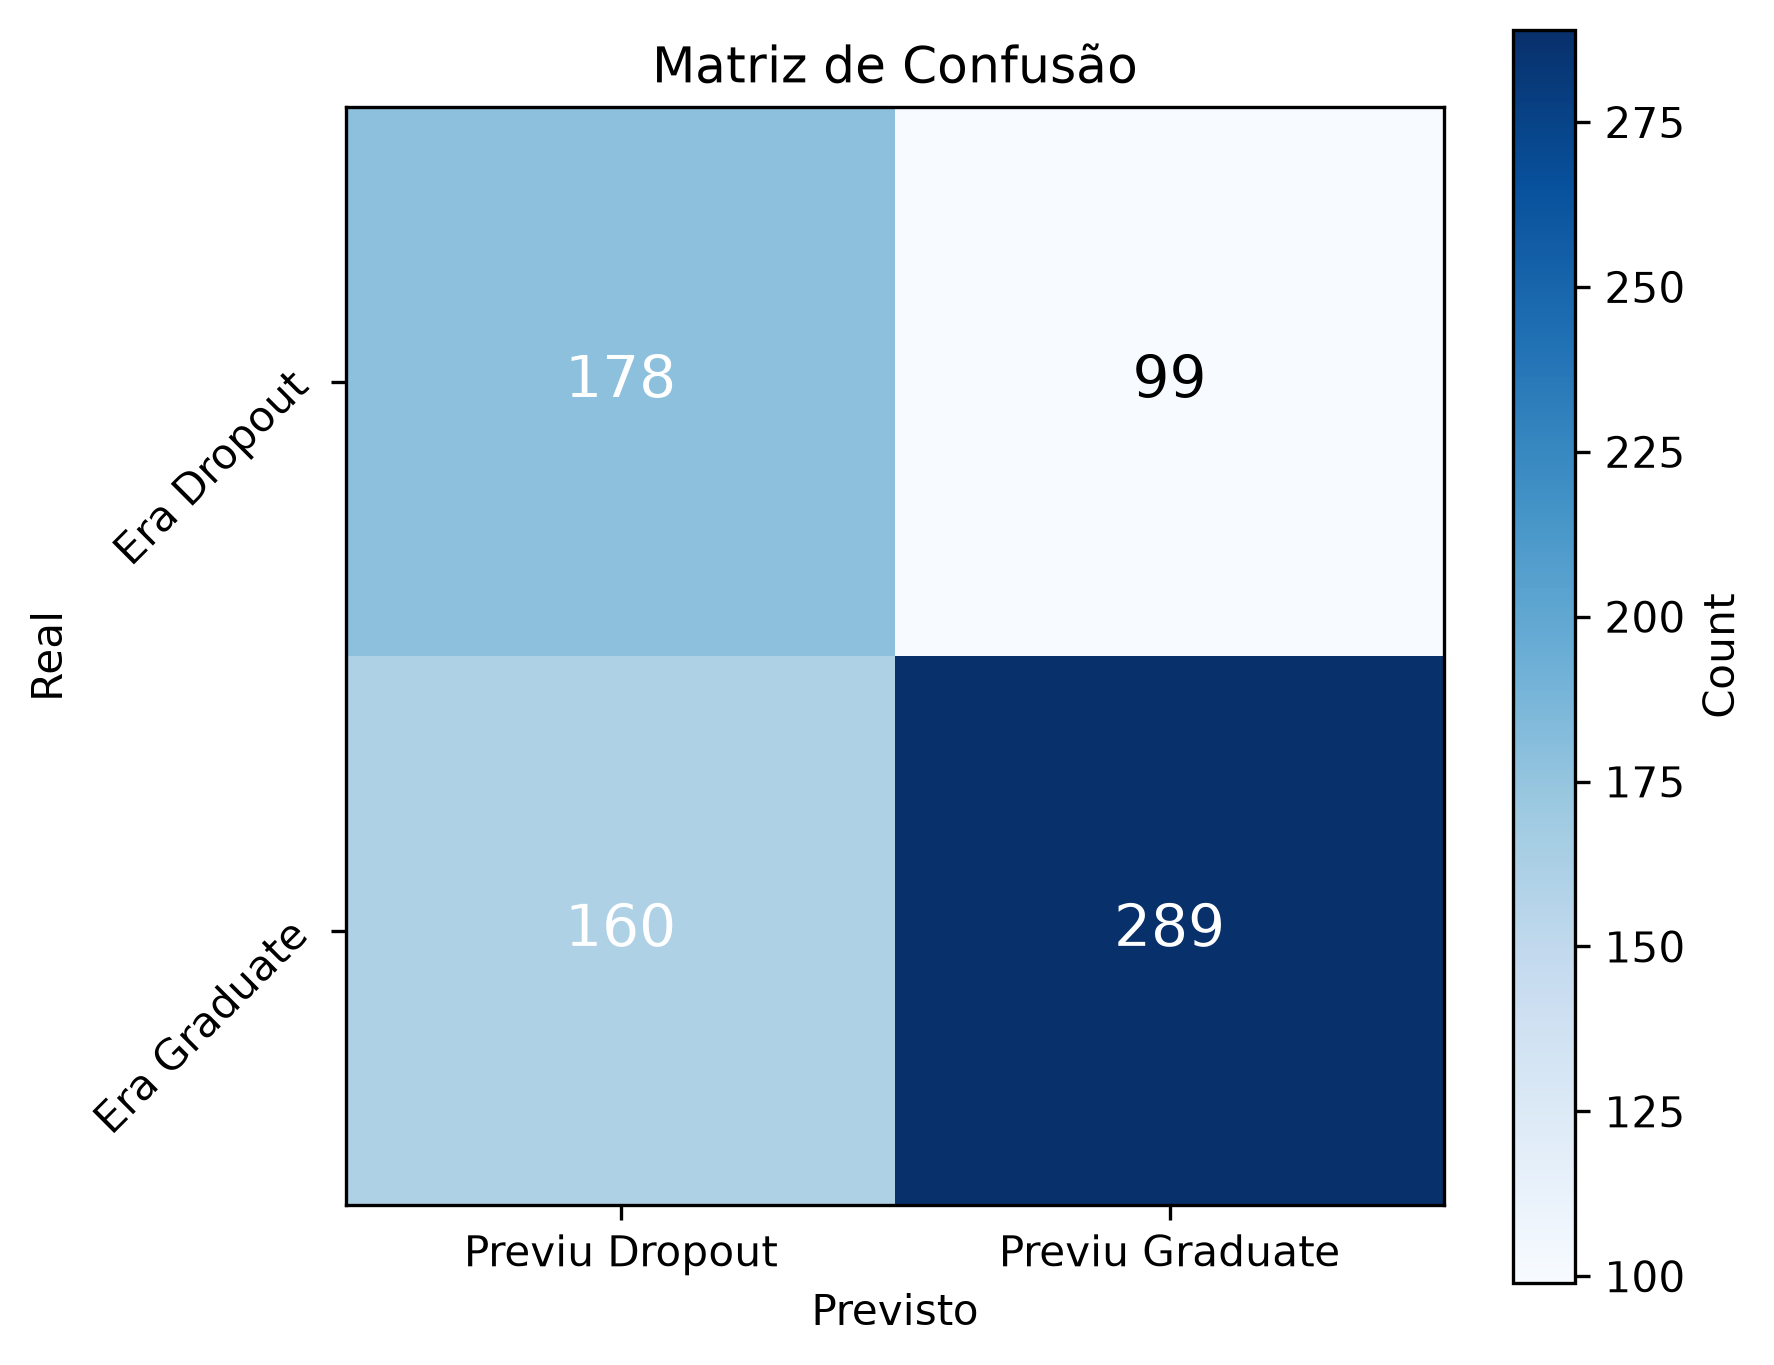
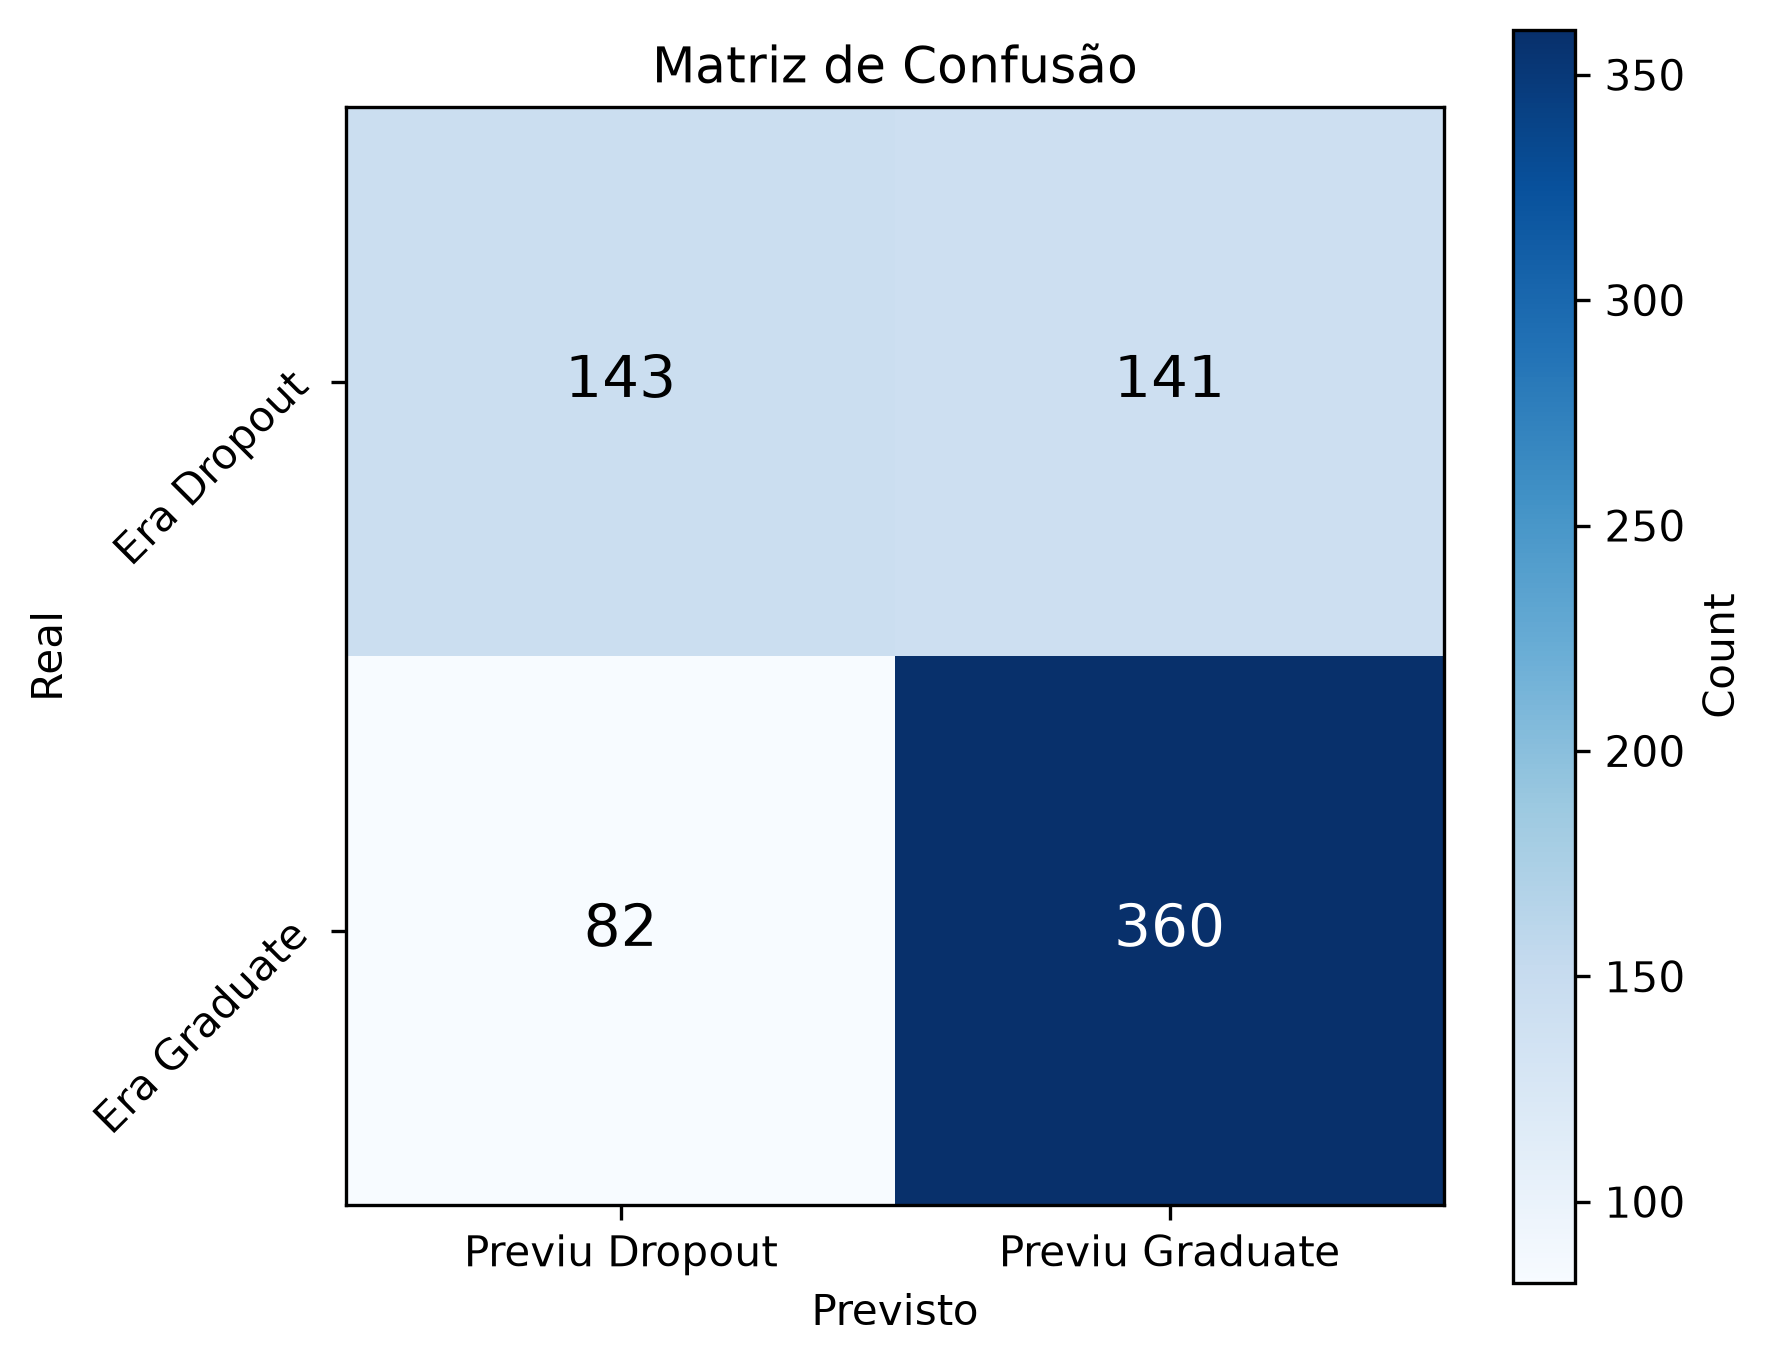
corrigindo modelo de arvore de decisao

diff --git a/treinar-DecisionTree.py b/treinar-DecisionTree.py
@@ -1,4 +1,5 @@
 import pandas as pd
+import os
 import numpy as np
 import matplotlib.pyplot as plt
 import joblib
@@ -9,7 +10,7 @@ from sklearn.metrics import accuracy_score
 from sklearn.metrics import confusion_matrix
 from sklearn.metrics import classification_report
 
-
+os.makedirs("resultados", exist_ok=True)
 df = pd.read_csv('data/dataset.csv', sep=";")
 
 df = df[df["Target"] != "Enrolled"]
@@ -22,13 +23,19 @@ y = df["Target"]
 
 
 X_treino, X_teste, y_treino, y_teste = train_test_split(
-    X, y, test_size=0.2, random_state=42
+    X, y, test_size=0.2, random_state=404, stratify=y
 )
 
 ## -- Cria modelo
-modelo = DecisionTreeClassifier(random_state=42)
+modelo = DecisionTreeClassifier(random_state=404, max_depth=5)
 ## -- Treina
 modelo.fit(X_treino, y_treino)
+
+## -- Verifica a acurácia nos dados de treinamento
+previsoes_treino = modelo.predict(X_treino)
+acuracia_treino = accuracy_score(y_treino, previsoes_treino)
+
+print("Acurácia no Treinamento:", acuracia_treino)
 
 ## -- Preve
 previsoes = modelo.predict(X_teste)
@@ -37,6 +44,11 @@ previsoes = modelo.predict(X_teste)
 acuracia = accuracy_score(y_teste, previsoes)
 print("Acurácia:", acuracia)
 
+## -- Calcula o baseline, utilizando a classe mais comum como previsão para todos os alunos.
+classe_mais_comum = y_treino.value_counts().idxmax()
+previsoes_baseline = [classe_mais_comum] * len(y_teste)
+acuracia_baseline = accuracy_score(y_teste, previsoes_baseline)
+print ("Acurácia do BaseLine: ", acuracia_baseline)
 
 ## -- Mostra onde acertou e errou
 matriz = confusion_matrix(y_teste, previsoes)

diff --git a/resultados/resultados-decision-tree.md b/resultados/resultados-decision-tree.md
@@ -11,26 +11,29 @@
   - Possui bolsa de estudos.
 - **Variável de saída (y):** Situação acadêmica.
 - **Divisão dos dados:** 80% para treinamento e 20% para teste.
-- **Estado aleatório:** 42.
-- 
+- **Estado aleatório:** 404.
+- **Profundidade máxima:** 5.
+
 ## 2. Resultados da avaliação
 
-- **Taxa de acerto (Acurácia):** 64,33%.
+- **Acurácia no treinamento:** 71,87%.
+- **Taxa de acerto no teste (Acurácia):** 69,28%.
+- **Baseline:** 60,88%.
 
 ### Matriz de confusão
 
 | | Previu abandono | Previu conclusão |
 |---|---:|---:|
-| Era abandono | 178 | 99 |
-| Era conclusão | 160 | 289 |
+| Era abandono | 143 | 141 |
+| Era conclusão | 82 | 360 |
 
 ### Métricas de avaliação
 
 | Métrica | Abandono | Conclusão |
 |---|---:|---:|
-| Precisão | 0,53 | 0,74 |
-| Sensibilidade | 0,64 | 0,64 |
-| Medida F1 | 0,58 | 0,69 |
+| Precisão | 0,64 | 0,72 |
+| Sensibilidade | 0,50 | 0,81 |
+| Medida F1 | 0,56 | 0,76 |
 
 ## 3. O que é o Índice Gini?
 
@@ -48,6 +51,10 @@ No nosso modelo, o Índice Gini ajuda a separar os estudantes nas categorias de 
 
 ## 4. Observação
 
-O modelo foi treinado e avaliado utilizando a divisão de 80% para treinamento e 20% para teste.
+O modelo foi treinado utilizando 80% dos dados e avaliado com os 20% restantes.
+
+A acurácia no teste foi de 69,28%, enquanto o baseline apresentou 60,88%. Isso significa que a Árvore de Decisão teve um resultado melhor do que simplesmente prever a classe mais comum.
+
+A acurácia de treinamento foi de 71,87%, um resultado próximo ao obtido no teste.
 
 Esses resultados serão utilizados posteriormente para comparar a Árvore de Decisão com outro modelo.
